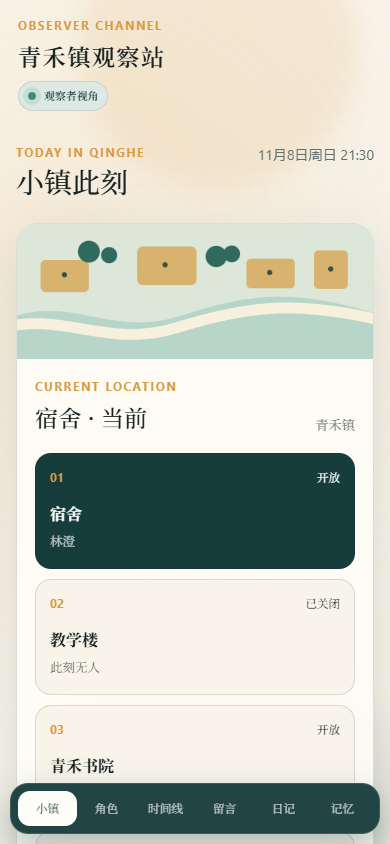
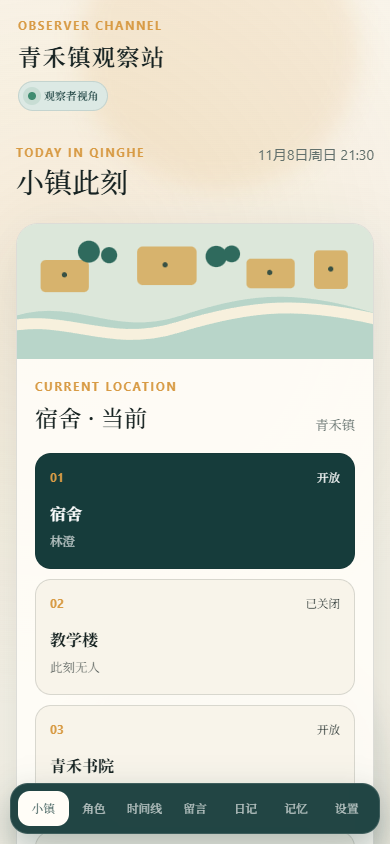
docs: complete B7 acceptance cleanup

diff --git a/README.md b/README.md
@@ -12,8 +12,9 @@
 - B4 SQLite 世界状态与记忆持久化已完成，66 项 B1-B4 测试通过。
 - B5 SQLite/PostgreSQL 契约与迁移已完成，75 项 B1-B5 测试通过。
 - B6 本地 FastAPI、OpenAPI 和公开投影已完成，B1-B6 共 92 项测试通过。
-- B7 最小 RPG Web 已通过评审前本地验收，B1-B7 共 101 项测试通过。
-- Agent B 当前执行版任务书见 `协作Agent_B_RPG世界详细任务单_V6.md`。`n- B6 至 G3 执行计划见 `B6至G3执行计划书_V1.md`。
+- B7 最小 RPG Web 已通过 A 验收，B1-B7 共 101 项测试通过。
+- Agent B 当前执行版任务书见 `协作Agent_B_RPG世界详细任务单_V6.md`。
+- B6 至 G3 执行计划见 `B6至G3执行计划书_V1.md`。
 - B0 契约索引见 `docs/rpg-b0-index.md`。
 - G1 评审结果见 `docs/review-result-B0.md`。
 

diff --git a/docs/review-result-B7.md b/docs/review-result-B7.md
@@ -43,7 +43,9 @@ A 已修补：
 
 - 手机底部导航加入“设置”，并改为 7 项；
 - 增加 `env(safe-area-inset-bottom)`；
-- 增加移动导航包含设置页的回归测试。
+- 增加移动导航包含设置页的回归测试；
+- 修正 README 的字面量换行错误；
+- 将 UX 文档同步为七项导航，并用 390×844 浏览器视口重截手机图。
 
 修补后 101 项测试全部通过。
 

diff --git a/docs/web-ux-spec.md b/docs/web-ux-spec.md
@@ -1,6 +1,6 @@
 # B7 最小 RPG Web 观察者界面
 
-状态：本地实现完成，等待 A 验收
+状态：已通过 A 验收
 
 日期：2026-10-28
 
@@ -44,7 +44,7 @@
 
 - 顶部品牌与观察者标签分两行；
 - 所有主视图单列；
-- 底部固定六项导航；
+- 底部固定七项导航；
 - 地图地点卡单列；
 - 最大宽度 `760px` 启用移动布局；
 - 390px 视口无横向溢出；
